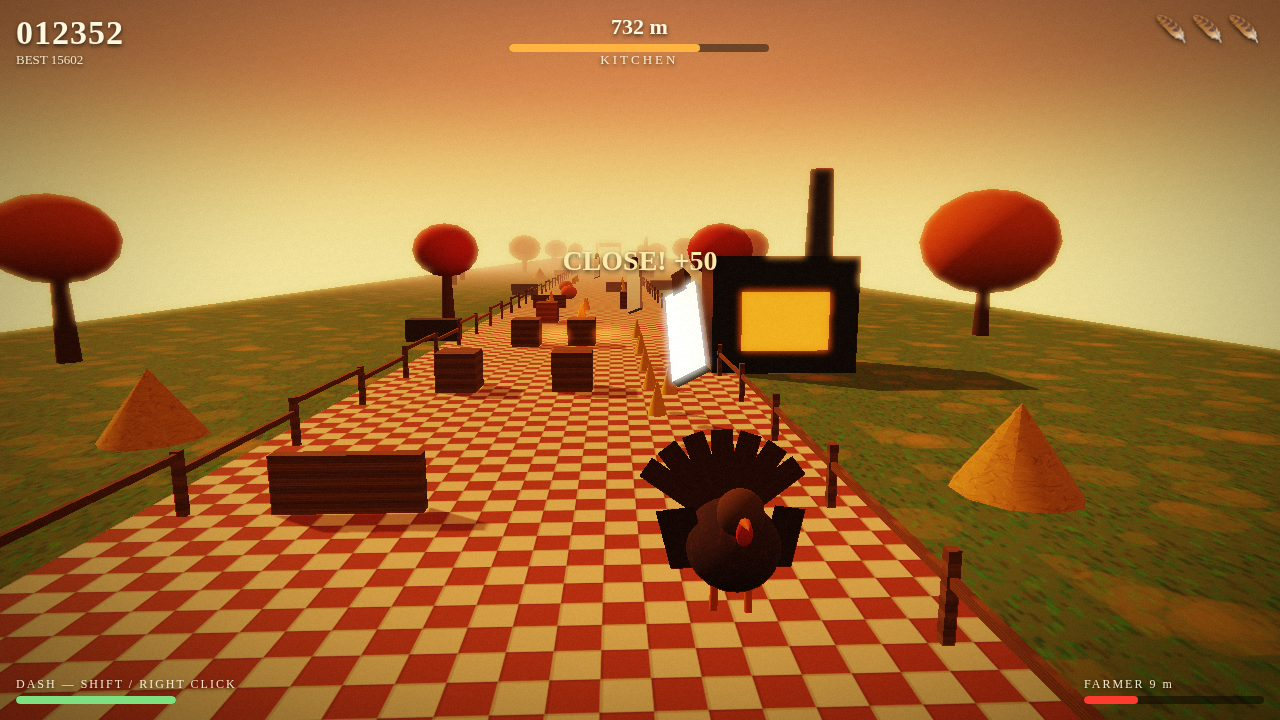
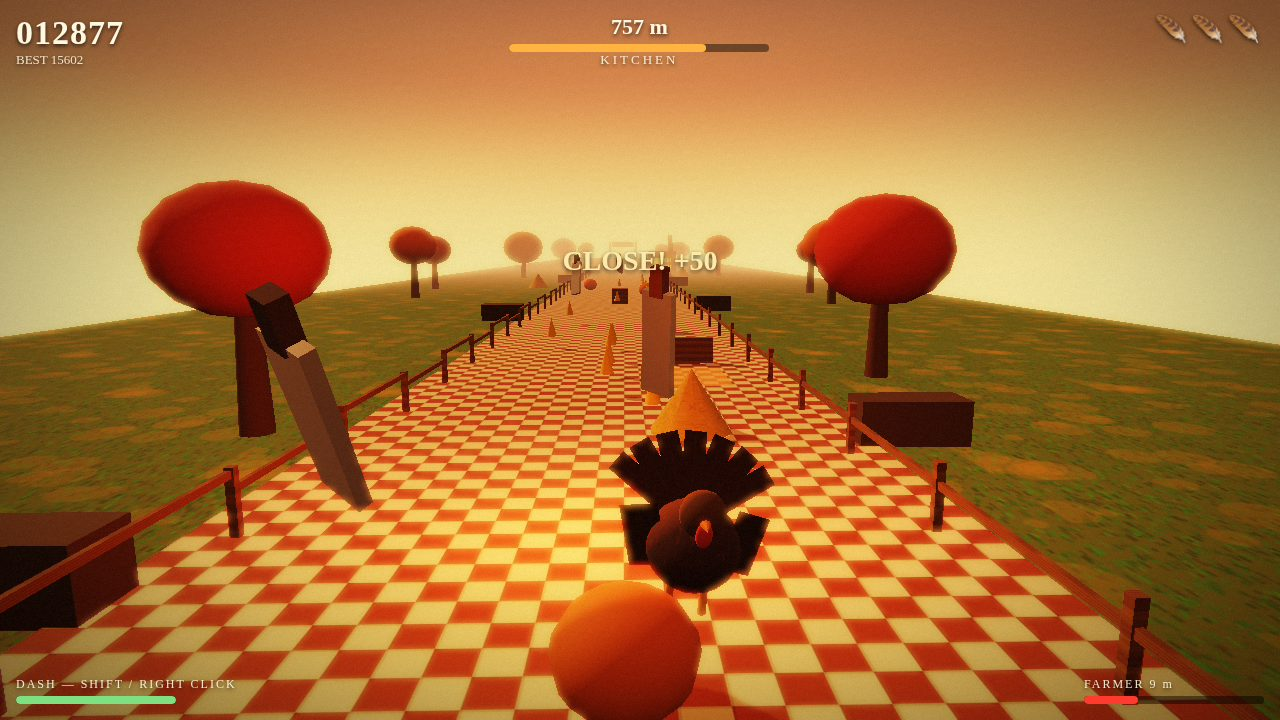
Fix pass 3 (LAST): oven actually spawns, free-lane composes with oven, pools + toast + gate-glow
C1 (QA HIGH): the oven never spawned in real play — the 35 m-ahead knife
gate was empty only ~3% of kitchen samples and the timer reset to 1.2 s
forever. Replaced with a +/-12 m band around the oven spawn z (any lane);
a blocked placement no longer resets the timer, it re-checks every step.
First oven due 2 s after the kitchen, gaps 7-10 s -> 3-5 s, so the 300 m
kitchen holds 2-3 ovens per run instead of one, and none lands past the
finish line. Measured: ovenSpawns 2/3/3/3 per escape (seeds 7/1/2/3),
all warned, knifeWithinBandDuringWarnHot == 0, autopilot still escapes
1000 m in 92.4-93.3 s.

F-B: the old gate also allowed knives 0-13 m BEFORE an oven (cheap shot).
The +/-12 m band forbids knives on either side; min knife gap at spawn
measured 12.1-12.8 m (band binding, as designed). The 'oven+knife+corner
can never coincide' claim was false — corner is gap-driven — and the
README + config comments now say so honestly.

F-A: double suppressed within 12 m of an active oven, and the oven lane
is picked around any double within 12 m of its z (never takes the
double's only free lane); deferred only when every lane is some double's
free lane. Also fixed the real wall the free-lane test hid: a double +
a knife at the same z took all three lanes — double/knife now refuse
to take the last free lane (free.length > 1).

F-C: pools fence/hay/pumpkin/crate 10/8/8/8 -> 12 each, corn 32 -> 40
(max live measured: pumpkin 9, corn 29 — the old 8-pool would have
[…]

diff --git a/game/src/world.js b/game/src/world.js
@@ -45,7 +45,10 @@ export class World {
     this.entities = [];
     this.spawnTimer = 1.2;
     this.knifeTimer = 2;
-    this.ovenTimer = 5;
+    // First oven is due 2 s after entering the kitchen (~725 m): the
+    // kitchen is only 300 m long (~23 s of travel), so a 5 s first wait
+    // plus a 7–10 s gap left room for at most one oven per run.
+    this.ovenTimer = 2;
     this.player = {
       lane: 0, y: 0, vy: 0, jumping: false, coyote: 0,
       dashT: 0, dashCd: 0, hidden: 0, invuln: 0, flare: 0,
@@ -225,11 +228,12 @@ export class World {
   }
 
   // True while an oven is warning or burning: knives stay holstered for
-  // the whole window, so an oven can never coincide with a knife — and
-  // therefore never with knife + farmer-corner together. Deliberately
-  // warn/hot only, not the idle approach: suppressing knives from the
-  // moment an oven is placed 48 m out would gut the kitchen's knives
-  // for ~4 s of every 7–10 s oven cycle.
+  // the whole window, so no NEW knife spawns during a warn/hot. It says
+  // nothing about knives already on the track — those are kept clear of
+  // the blast by the ±12 m placement band in _spawn — and nothing about
+  // the farmer: corner mode is gap-driven and CAN coincide with an oven
+  // warn (an obstacle hit drops the gap below 6 m). The old comment
+  // claiming oven + knife + corner could never coincide was wrong.
   _ovenPending() {
     return this.entities.some((e) => e.active && e.kind === 'oven'
       && (e.ovenPhase === 'warn' || e.ovenPhase === 'hot'));
@@ -259,9 +263,18 @@ export class World {
         });
         // Second obstacle at the same z, different lane — a slalom, never
         // a wall: _freeLaneAt re-checked after the first one landed.
-        if (this.rng.chance(SPAWN.doubleChance)) {
+        // F-A guard: no double inside the oven's ~12 m hot window — if
+        // the double's free lane were the oven lane, the player would
+        // have to sit in a burning lane to clear the double.
+        // The second obstacle may only land if TWO lanes are still free
+        // at this z: taking the last free lane would wall the track
+        // (a knife spawned a step earlier in the remaining lane already
+        // blocks it — the double+knife wall this used to build).
+        const ovenNearSpawn = this.entities.some((e) => e.active && e.kind === 'oven'
+          && Math.abs(e.z - z) < 12);
+        if (!ovenNearSpawn && this.rng.chance(SPAWN.doubleChance)) {
           const free2 = this._freeLaneAt(z);
-          if (free2.length > 0) {
+          if (free2.length > 1) {
             const laneIdx2 = free2[this.rng.int(0, free2.length - 1)];
             const kind2 = stage === 2
               ? this.rng.pick(['crate', 'fence', 'pumpkin'])
@@ -290,13 +303,16 @@ export class World {
     }
     // Swinging knives appear from 250 m, faster in the kitchen — but never
     // while an oven is pending, and never into a lane already blocked.
+    // A knife may only land if TWO lanes are still free at its z: taking
+    // the last free lane would wall the track together with a double
+    // that spawned a step earlier in the other two lanes.
     if (this.distance > SPAWN.knifeFrom && !this._ovenPending()) {
       this.knifeTimer -= STEP;
       if (this.knifeTimer <= 0) {
         this.knifeTimer = this.stage === 2 ? 2.2 : 3.2;
         const z = this.distance + SPAWN.ahead;
         const free = this._freeLaneAt(z);
-        if (free.length > 0) {
+        if (free.length > 1) {
           const laneIdx = free[this.rng.int(0, free.length - 1)];
           this.entities.push({
             kind: 'knife', z, lane: LANES[laneIdx], active: true, passed: false, y: 0, phase: this.rng.next() * 6,
@@ -307,19 +323,58 @@ export class World {
       }
     }
     // Kitchen oven: one blast at a time, one lane wide, placed ahead.
-    // Held back while a knife sits within 35 m ahead, so the telegraph
-    // never has to compete with a blade for the player's attention.
+    // Placement gate (C1 + F-B, reconciled): the oven may only land
+    // where no knife sits within ±12 m of its spawn z, in ANY lane.
+    // That band is the player's recovery room on both sides of the
+    // blast — a knife 5 m before an oven was a cheap shot the old gate
+    // allowed (it only forbade knives 13–48 m ahead of the oven). The
+    // old 35 m-ahead gate starved the oven completely: a knife dwells
+    // 2.8 s inside a 35 m window against a 2.2 s knife cadence, so the
+    // window was empty only ~3% of kitchen samples. A ±12 m band is
+    // narrow enough to clear often, and knives spawn 70 m out — 22+ m
+    // beyond an oven's spawn z — so none can enter the band after
+    // placement, and none spawn at all during warn/hot (_ovenPending).
+    // A blocked placement does NOT reset the timer to 1.2 s: it stays
+    // at 0 and is re-checked every step, so the oven lands the moment
+    // the band clears (at most one knife cycle later) instead of
+    // missing the clearing window between retries. F-A, the reverse
+    // direction of the double guard above: doubles spawn 70 m out,
+    // ovens 48 m out, so an oven can land ON an earlier double — but
+    // deferring the oven while ANY double is within 12 m would starve
+    // it (doubles sit ~23 m apart, so the candidate is inside some
+    // double's 12 m window most of the time). Instead the oven lane is
+    // picked AROUND the doubles: a double within 12 m of the candidate
+    // leaves one free lane, and the oven must not take that lane, or
+    // the player would have to sit in a burning lane to clear the
+    // double. Only when every lane is some nearby double's free lane
+    // (two doubles, different free lanes) is the placement deferred.
+    // An oven whose z would fall past the finish line is never placed:
+    // it could never warn before the escape.
     if (this.distance > SPAWN.ovenFrom && !this._ovenPlaced()) {
       this.ovenTimer -= STEP;
       if (this.ovenTimer <= 0) {
-        const knifeNear = this.entities.some((e) => e.active && e.kind === 'knife'
-          && e.z > this.distance && e.z < this.distance + 35);
-        if (knifeNear) {
-          this.ovenTimer = 1.2;
+        const ovenZ = this.distance + OVEN.ahead;
+        const knifeInBand = this.entities.some((e) => e.active && e.kind === 'knife'
+          && Math.abs(e.z - ovenZ) < 12);
+        const dangerLanes = new Set();
+        for (const e of this.entities) {
+          if (!e.active || e.kind === 'corn' || e.kind === 'oven') continue;
+          if (Math.abs(e.z - ovenZ) < 12) {
+            const blocked = this._blockedLanesAt(e.z);
+            if (blocked.filter(Boolean).length >= 2) {
+              for (let i = 0; i < 3; i += 1) {
+                if (!blocked[i]) dangerLanes.add(LANES[i]);
+              }
+            }
+          }
+        }
+        const safeLanes = LANES.filter((lane) => !dangerLanes.has(lane));
+        if (knifeInBand || safeLanes.length === 0 || ovenZ > TRACK_LENGTH) {
+          this.ovenTimer = 0;
         } else {
           this.ovenTimer = this.rng.range(OVEN.minGap, OVEN.maxGap);
           this.entities.push({
-            kind: 'oven', z: this.distance + OVEN.ahead, lane: this.rng.pick(LANES),
+            kind: 'oven', z: ovenZ, lane: this.rng.pick(safeLanes),
             active: true, passed: false, y: 0, phase: this.rng.next() * 6,
             ovenPhase: 'idle', ovenT: 0,
           });

diff --git a/game/src/scene.js b/game/src/scene.js
@@ -5,7 +5,7 @@
 import * as THREE from 'three';
 import { makeRng } from './rng.js';
 
-const POOL = { fence: 10, hay: 8, pumpkin: 8, crate: 8, corn: 32, knife: 6, oven: 2 };
+const POOL = { fence: 12, hay: 12, pumpkin: 12, crate: 12, corn: 40, knife: 6, oven: 2 };
 
 function skyMaterial() {
   return new THREE.ShaderMaterial({
@@ -378,9 +378,6 @@ export function buildFarm(scene, textures) {
   const board = new THREE.Mesh(new THREE.BoxGeometry(8, 1.6, 0.2), new THREE.MeshStandardMaterial({ map: textures.sign, roughness: 0.9 }));
   board.position.set(0, 6.2, 0);
   gate.add(board);
-  const gateGlow = new THREE.Mesh(new THREE.PlaneGeometry(10, 8), new THREE.MeshBasicMaterial({ color: 0xa8e06a, transparent: true, opacity: 0.25, side: THREE.DoubleSide }));
-  gateGlow.position.set(0, 4, -1);
-  gate.add(gateGlow);
   gate.position.set(0, 0, -1000);
   scene.add(gate);
 
@@ -457,6 +454,10 @@ export function buildFarm(scene, textures) {
   };
 
   let lastShadowZ = -100;
+  // Dev warning for a pool overflow (F-C): a live entity with no free
+  // slot would otherwise render nothing while still colliding. Once per
+  // kind per session, so a sustained overflow does not spam the console.
+  const poolWarned = {};
 
   return {
     sun,
@@ -470,7 +471,13 @@ export function buildFarm(scene, textures) {
         const pool = pools[e.kind];
         if (!pool) continue;
         const slot = pool[byKind[e.kind]];
-        if (!slot) continue;
+        if (!slot) {
+          if (!poolWarned[e.kind]) {
+            poolWarned[e.kind] = true;
+            console.warn('[gobble] pool overflow: no free slot for', e.kind, '- raise POOL.' + e.kind);
+          }
+          continue;
+        }
         byKind[e.kind] += 1;
         slot.mesh.visible = true;
         slot.mesh.position.set(e.lane, e.y || 0, -e.z);
@@ -502,7 +509,7 @@ export function buildFarm(scene, textures) {
           const core = slot.mesh.userData.core;
           if (e.ovenPhase === 'warn') {
             marker.visible = true;
-            marker.material.opacity = 0.35 + 0.3 * Math.sin(world.time * 10);
+            marker.material.opacity = 0.45 + 0.25 * Math.sin(world.time * 10);
             flame.visible = false;
             core.visible = false;
             this._ovenWarn = true;

diff --git a/game/src/config.js b/game/src/config.js
@@ -52,9 +52,13 @@ export const SPAWN = {
   ahead: 70,
   behind: 12,
   // Second obstacle at the same z: 0.35 — always in a different lane, and
-  // world.js refuses any spawn that would leave zero free lanes at that z
-  // (obstacle, knife and oven all check the same _freeLaneAt helper), so
-  // at least one of the three lanes is open at every distance.
+  // every spawn leaves at least one lane free at its z afterwards
+  // (obstacle, double, knife and oven all check the same _freeLaneAt
+  // helper, and the double/knife refuse to take the last free lane), so
+  // at least one of the three lanes is open at every distance. The double
+  // is additionally suppressed within 12 m of an active oven, and an oven
+  // never takes a nearby double's only free lane, so the oven's ~12 m hot
+  // window cannot turn the double's free lane into a burning lane (world.js).
   doubleChance: 0.35,
   cornChance: 0.85,
   cornMax: 4,
@@ -64,12 +68,20 @@ export const SPAWN = {
 // warnRange is the distance at which the warning starts (≈1.2 s of travel
 // at kitchen speed, never below the 0.8 s fairness floor); warnTime is the
 // glow + HUD + audio telegraph, activeTime the burning window. The blast
-// covers one lane only and never overlaps a knife spawn (see world.js).
+// covers one lane only. Placement keeps every knife ±12 m clear of the
+// oven's spawn z (any lane); its lane is picked around any double
+// obstacle within 12 m, so the oven never takes the double's only free
+// lane (world.js); no NEW knife spawns while it warns/burns. Corner
+// mode is gap-driven and can still coincide with an oven warn.
+// minGap/maxGap is the quiet time between blasts: 3–5 s, so the 300 m
+// kitchen (~23 s) holds two or three ovens per run instead of one —
+// and the second blast still lands before the finish line, where a
+// 7–10 s gap pushed it past 1000 m and it could never warn.
 export const OVEN = {
   warnTime: 1.0,
   activeTime: 0.8,
-  minGap: 7,
-  maxGap: 10,
+  minGap: 3,
+  maxGap: 5,
   ahead: 48,
   warnRange: 16,
   halfWidth: 1.15,

diff --git a/game/src/hud.js b/game/src/hud.js
@@ -26,6 +26,7 @@ export function createHud() {
   const titleBest = el('title-best');
   let bannerTimer = 0;
   let toastTimer = 0;
+  let toastPriority = 0;
 
   function show(name) {
     for (const key of Object.keys(screens)) {
@@ -58,10 +59,17 @@ export function createHud() {
     bannerTimer = 1.5;
   }
 
-  function toast(text) {
+  // Single-slot toast with priority (F-D): the oven warn is priority 1
+  // and lives 1.1 s — longer than the 1.0 s warn — so a routine
+  // "CLOSE! +50" near-miss toast cannot overwrite "OVEN BLAST — MOVE!"
+  // mid-warn. Priority resets when the toast expires, so later toasts
+  // show normally.
+  function toast(text, priority = 0) {
+    if (priority < toastPriority && toastTimer > 0) return;
+    toastPriority = priority;
     toastEl.textContent = text;
     toastEl.classList.remove('hidden');
-    toastTimer = 0.9;
+    toastTimer = priority > 0 ? 1.1 : 0.9;
   }
 
   function update(world, dt) {
@@ -71,7 +79,10 @@ export function createHud() {
     }
     if (toastTimer > 0) {
       toastTimer -= dt;
-      if (toastTimer <= 0) toastEl.classList.add('hidden');
+      if (toastTimer <= 0) {
+        toastEl.classList.add('hidden');
+        toastPriority = 0;
+      }
     }
     scoreEl.textContent = String(Math.floor(world.score)).padStart(6, '0');
     bestEl.textContent = `BEST ${world.best}`;

diff --git a/game/src/shots.js b/game/src/shots.js
@@ -85,11 +85,12 @@ export function stageShot(name, world) {
   }
   if (name === 'nearmiss') {
     // Fast-forward to the kitchen, then stage a knife swing right ahead.
-    // 73 s of honest autopilot reaches 732.8 m (no teleport needed) and
-    // puts the first oven ~25 m ahead of the staged camera, so its
-    // glowing door reads in frame instead of filling the frame edge.
+    // 75 s of honest autopilot reaches 757.7 m (no teleport needed) and
+    // the first oven — spawned at 725 m, z 772.7, lane -2.6 — sits 15 m
+    // ahead in warn, its pad pulsing, so the blast reads in frame next
+    // to the staged blade instead of filling the frame edge.
     world.state = 'play';
-    runSteps(world, 73, 1.2, true);
+    runSteps(world, 75, 1.2, true);
     // Fallback only: the pilot normally clears 720 m by now; keep the
     // guard so a bad-luck run still stages in the kitchen.
     if (world.distance < 720) world.distance = 740;

diff --git a/game/src/main.js b/game/src/main.js
@@ -109,7 +109,7 @@ function applyEvents(events) {
   }
   if (events & EVENT_OVEN_WARN) {
     audio.ovenWarn();
-    hud.toast('OVEN BLAST — MOVE!');
+    hud.toast('OVEN BLAST — MOVE!', 1);
   }
   if (events & EVENT_OVEN_HOT) {
     audio.ovenBlast();

diff --git a/README.md b/README.md
@@ -15,7 +15,12 @@ fences, pumpkin patch, chickens and cows), the Barn is stacked with crates
 and barrels, and the Kitchen floor is chequered tile. In the Kitchen the
 oven is a real hazard: it warns with a glowing blast pad, flaring doors,
 a HUD callout and a rising hiss a full second before it fires down one
-lane — change lanes or dash clear, and never while a knife is swinging.
+lane — change lanes or dash clear. Two or three ovens blast per run; each
+is placed where no knife sits within 12 m either side of it, and no new
+knife spawns while it warns or burns, so the blast never has to be dodged
+through a blade. (A knife already swinging elsewhere on the track can
+still be out there — the guarantee is the 12 m clear band, not the whole
+kitchen.)
 3 stages (Farmyard → Barn → Kitchen), 3 feather-lives, dash with stamina,
 corn +25, near miss +50 (×2 in the Kitchen), escape bonus +500. Farmer
 Hodge chases in three states: chase, search, and corner — when the gap
@@ -49,10 +54,14 @@ canvas paintings, audio is WebAudio synthesis, the world is seeded so every
 `?shot=` preset reproduces the same frame. Fixed timestep 1/60 s with render
 interpolation, damped camera (1-exp(-dt*6)), FOV kick on dash, decaying
 trauma shake, object pooling, InstancedMesh dressing, and small bounded
-per-frame allocations (measured ~0.5 ms/render on SwiftShader, per-render
-cost with gl.finish flush). Spawns guarantee at least one free lane at every
-distance (obstacles, knives and the oven all check the same free-lane
-helper), and the oven never fires while a knife is swinging. Hand-rolled post chain: HalfFloat render target → half-res bloom
+per-frame allocations (measured 0.59–4.11 ms/render median across presets
+on SwiftShader with gl.finish flush; worst preset median 4.11 ms, ~4× under
+the 16.7 ms frame budget — the band varies run to run on this VM, so no
+single sub-millisecond figure is claimed). Spawns guarantee at least one
+free lane at every distance (obstacles, knives and the oven all check the
+same free-lane helper; a double or a knife refuses to take the last free
+lane), and the oven never takes a nearby double's only free lane, so its
+hot window cannot force the player into a burning lane. Hand-rolled post chain: HalfFloat render target → half-res bloom
 (threshold 0.75, strength 0.55) → grade pass (ACES approx + sRGB + vignette +
 radial chromatic aberration + grain) → FXAA. Quality presets Low / Medium /
 High with auto-detect and auto-degrade.
